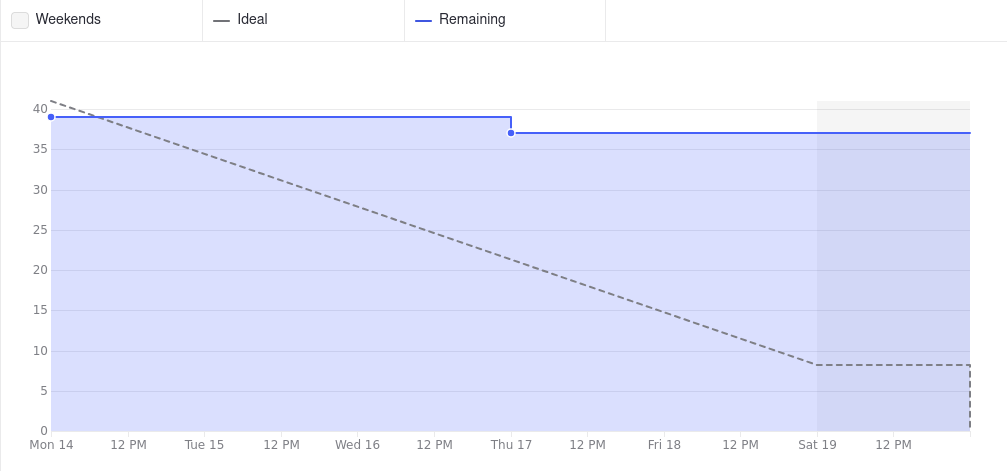
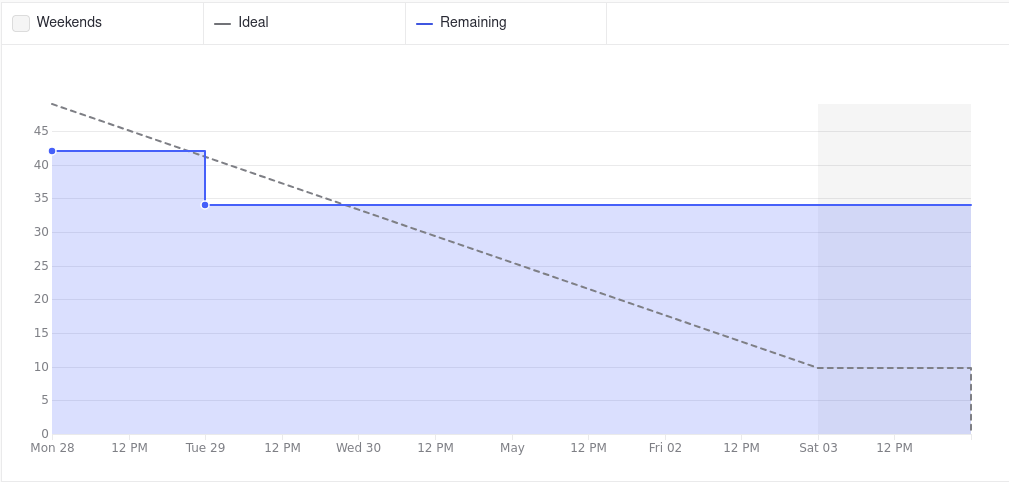
adiciona daily e altera gráficos

diff --git a/docs/Atas de Reunião/Sprint 0/daily.md b/docs/Atas de Reunião/Sprint 0/daily.md
@@ -1,0 +1,170 @@
+# Daily
+
+Documenta as dailys da sprint 0.
+
+## 28/04/2025
+
+### Arthur Gomes
+- **O que eu fiz:** Estudei Django e React.
+- **O que tenho a fazer:** Manter os estudos.
+- **O que me impede:** Nada relatado.
+
+### Caio Miranda
+- **O que eu fiz:** Estudei Django e React.
+- **O que tenho a fazer:** Manter os estudos.
+- **O que me impede:** Nada relatado.
+
+### Carlos
+- **O que eu fiz:** Estudei Django e React.
+- **O que tenho a fazer:** Manter os estudos.
+- **O que me impede:** Nada relatado.
+
+### Daniel
+- **O que eu fiz:** Estudei Django e React.
+- **O que tenho a fazer:** Manter os estudos.
+- **O que me impede:** Nada relatado.
+
+### Guga Augusto
+- **O que eu fiz:** Estudei Django e React.
+- **O que tenho a fazer:** Manter os estudos.
+- **O que me impede:** Nada relatado.
+
+### Guilherme Tegnoue
+- **O que eu fiz:** Estudei Django e React.
+- **O que tenho a fazer:** Manter os estudos.
+- **O que me impede:** Notebook queimado.
+
+### Janio
+- **O que eu fiz:** Estudei Django e React.
+- **O que tenho a fazer:** Manter os estudos.
+- **O que me impede:** Nada relatado.
+
+### João Gonçalves
+- **O que eu fiz:** Estudei Django e React.
+- **O que tenho a fazer:** Manter os estudos.
+- **O que me impede:** Nada relatado.
+
+### João Veras
+- **O que eu fiz:** Estudei Django e React.
+- **O que tenho a fazer:** Manter os estudos.
+- **O que me impede:** Nada relatado.
+
+### Pedro
+- **O que eu fiz:** Estudei Django e React.
+- **O que tenho a fazer:** Manter os estudos.
+- **O que me impede:** Nada relatado.
+
+---
+
+## 30/04/2025
+
+### Arthur Gomes
+- **O que eu fiz:** Estudei Django e React.
+- **O que tenho a fazer:** Manter os estudos.
+- **O que me impede:** Nada relatado.
+
+### Caio Miranda
+- **O que eu fiz:** Estudei Django e React.
+- **O que tenho a fazer:** Manter os estudos.
+- **O que me impede:** Nada relatado.
+
+### Carlos
+- **O que eu fiz:** Estudei Django e React.
+- **O que tenho a fazer:** Manter os estudos.
+- **O que me impede:** Nada relatado.
+
+### Daniel
+- **O que eu fiz:** Estudei Django e React.
+- **O que tenho a fazer:** Manter os estudos.
+- **O que me impede:** Nada relatado.
+
+### Guga Augusto
+- **O que eu fiz:** Estudei Django e React.
+- **O que tenho a fazer:** Manter os estudos.
+- **O que me impede:** Nada relatado.
+
+### Guilherme Tegnoue
+- **O que eu fiz:** Estudei Django e React.
+- **O que tenho a fazer:** Manter os estudos.
+- **O que me impede:** Notebook queimado.
+
+### Janio
+- **O que eu fiz:** Estudei Django e React.
+- **O que tenho a fazer:** Manter os estudos.
+- **O que me impede:** Nada relatado.
+
+### João Gonçalves
+- **O que eu fiz:** Estudei Django e React.
+- **O que tenho a fazer:** Manter os estudos.
+- **O que me impede:** Nada relatado.
+
+### João Veras
+- **O que eu fiz:** Estudei Django e React.
+- **O que tenho a fazer:** Manter os estudos.
+- **O que me impede:** Nada relatado.
+
+### Pedro
+- **O que eu fiz:** Estudei Django e React.
+- **O que tenho a fazer:** Manter os estudos.
+- **O que me impede:** Nada relatado.
+
+---
+
+## 02/05/2025
+
+### Arthur Gomes
+- **O que eu fiz:** Estudei Django e React.
+- **O que tenho a fazer:** Manter os estudos.
+- **O que me impede:** Nada relatado.
+
+### Caio Miranda
+- **O que eu fiz:** Estudei Django e React.
+- **O que tenho a fazer:** Manter os estudos.
+- **O que me impede:** Nada relatado.
+
+### Carlos
+- **O que eu fiz:** Estudei Django e React.
+- **O que tenho a fazer:** Manter os estudos.
+- **O que me impede:** Nada relatado.
+
+### Daniel
+- **O que eu fiz:** Estudei Django e React.
+- **O que tenho a fazer:** Manter os estudos.
+- **O que me impede:** Nada relatado.
+
+### Guga Augusto
+- **O que eu fiz:** Estudei Django e React.
+- **O que tenho a fazer:** Manter os estudos.
+- **O que me impede:** Nada relatado.
+
+### Guilherme Tegnoue
+- **O que eu fiz:** Estudei Django e React.
+- **O que tenho a fazer:** Manter os estudos.
+- **O que me impede:** Notebook queimado.
+
+### Janio
+- **O que eu fiz:** Estudei Django e React.
+- **O que tenho a fazer:** Manter os estudos.
+- **O que me impede:** Nada relatado.
+
+### João Gonçalves
+- **O que eu fiz:** Estudei Django e React.
+- **O que tenho a fazer:** Manter os estudos.
+- **O que me impede:** Nada relatado.
+
+### João Veras
+- **O que eu fiz:** Estudei Django e React.
+- **O que tenho a fazer:** Manter os estudos.
+- **O que me impede:** Nada relatado.
+
+### Pedro
+- **O que eu fiz:** Estudei Django e React.
+- **O que tenho a fazer:** Manter os estudos.
+- **O que me impede:** Nada relatado.
+
+---
+## Histórico de Versões
+
+| Versão | Data       | Modificação                | Autor(es)         |
+|--------|------------|----------------------------|-------------------|
+|   1.0  | 19/05/2025 | Adiciona dailys da sprint 0  | Jackes         |
